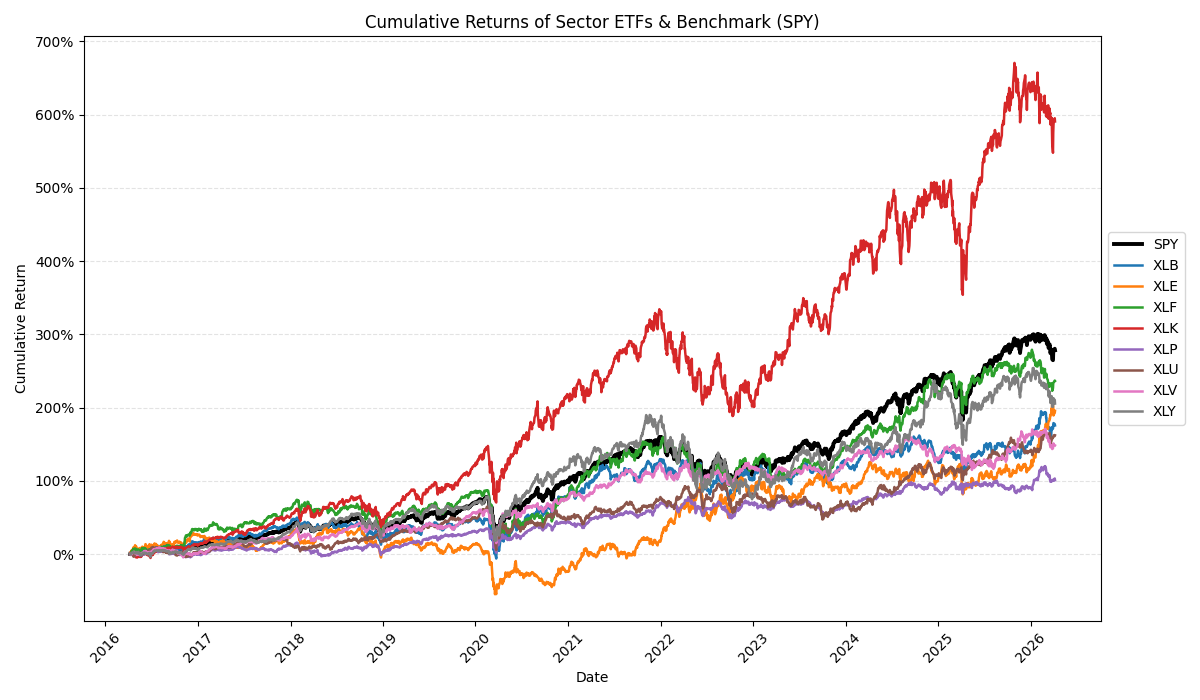
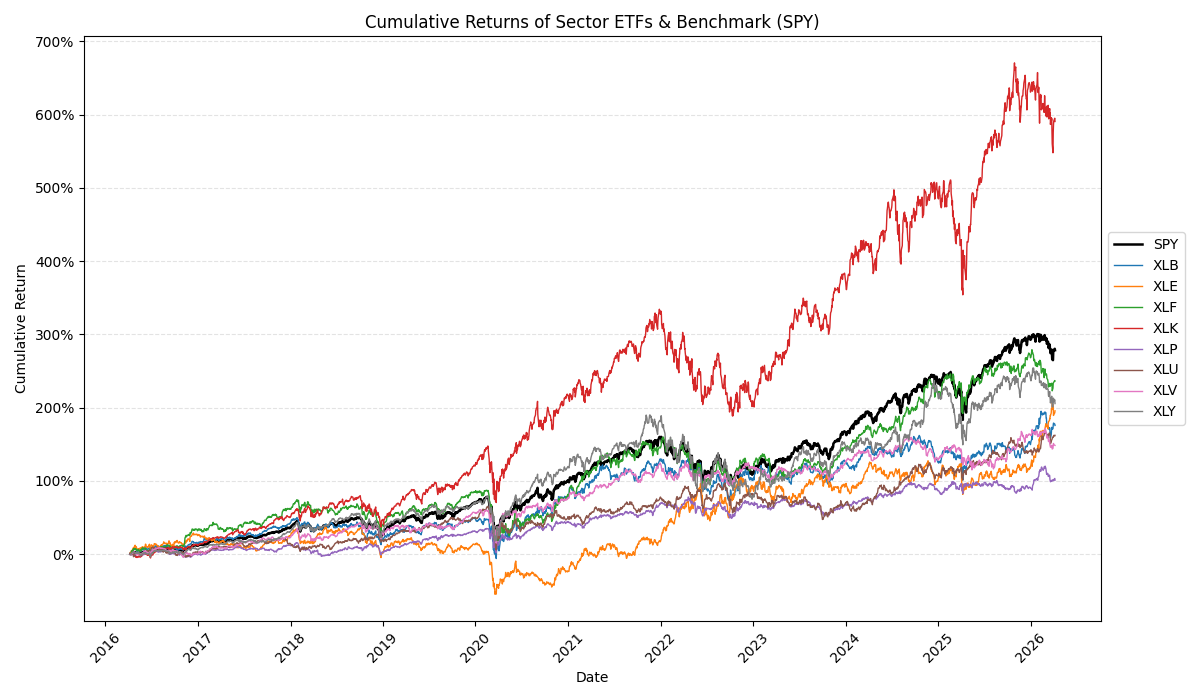
chnage linewidth

diff --git a/src/04_analysis.py b/src/04_analysis.py
@@ -53,7 +53,7 @@ df["Daily Return (Decimal)"] = df["Daily Return (%)"] / 100
 # convert the Date column to datetime format for plotting
 df["Date"] = pd.to_datetime(df["Date"])
 
-# sort fdata again just to make sure its in the right order
+# sort data again just to make sure its in the right order
 df = df.sort_values(["ticker", "Date"]).reset_index(drop=True)
 
 # Calculate the cumulative return for each ticker. Growth if £1 invested
@@ -75,7 +75,7 @@ for ticker in df["ticker"].unique():
             ticker_data["Date"], 
             ticker_data["cumulative return"], 
             label=ticker, 
-            linewidth=2.8, 
+            linewidth=1.8, 
             color="black"
         )
     else:
@@ -83,7 +83,7 @@ for ticker in df["ticker"].unique():
             ticker_data["Date"], 
             ticker_data["cumulative return"], 
             label=ticker, 
-            linewidth=1.8
+            linewidth=1
         )
     
 
